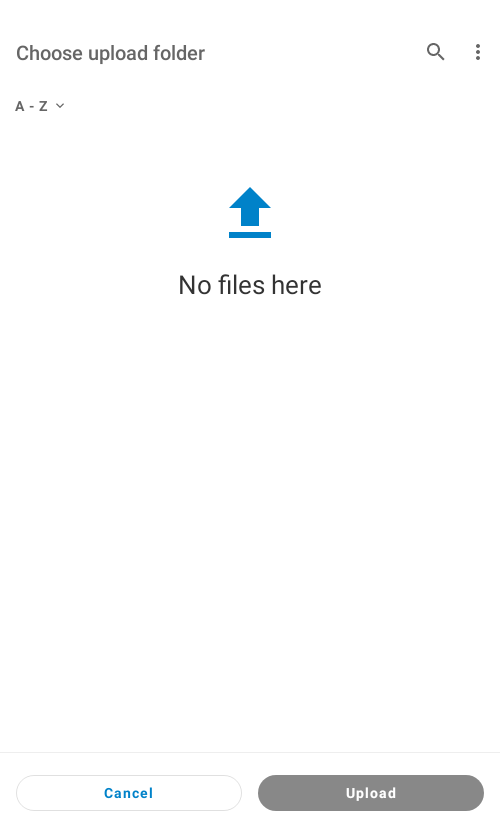
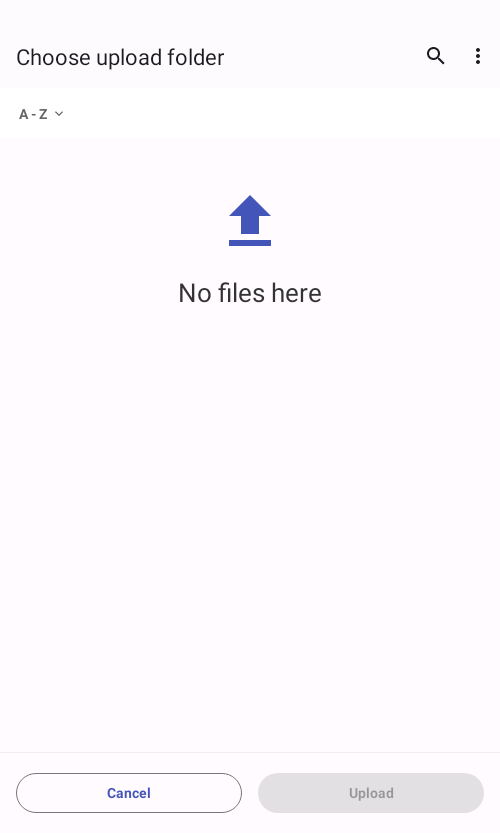
ReceiveExternalFilesActivity: fix disabled button coloring and update screenshot

diff --git a/app/src/main/java/com/owncloud/android/ui/activity/ReceiveExternalFilesActivity.java b/app/src/main/java/com/owncloud/android/ui/activity/ReceiveExternalFilesActivity.java
@@ -774,13 +774,7 @@ public class ReceiveExternalFilesActivity extends FileActivity
             viewThemeUtils.material.colorMaterialButtonPrimaryFilled(btnChooseFolder);
             btnChooseFolder.setOnClickListener(this);
 
-            if (mFile.canWrite()) {
-                btnChooseFolder.setEnabled(true);
-                viewThemeUtils.material.colorMaterialButtonPrimaryFilled(btnChooseFolder);
-            } else {
-                btnChooseFolder.setEnabled(false);
-                btnChooseFolder.setBackgroundColor(Color.GRAY);
-            }
+            btnChooseFolder.setEnabled(mFile.canWrite());
 
             viewThemeUtils.platform.themeStatusBar(this);
 
